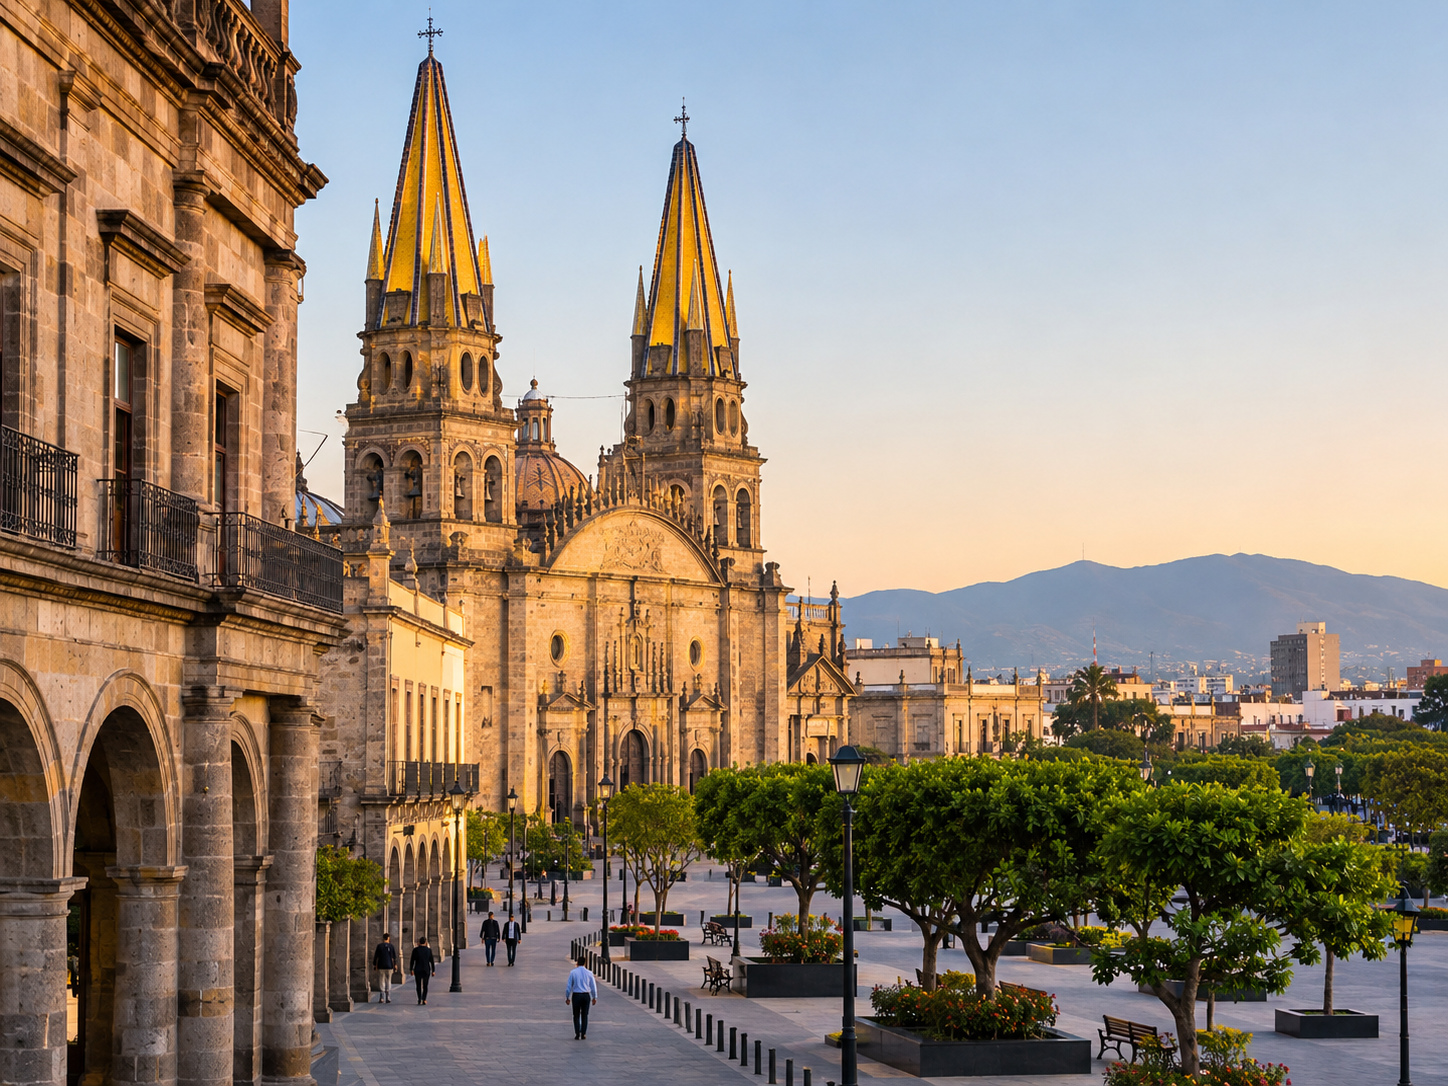
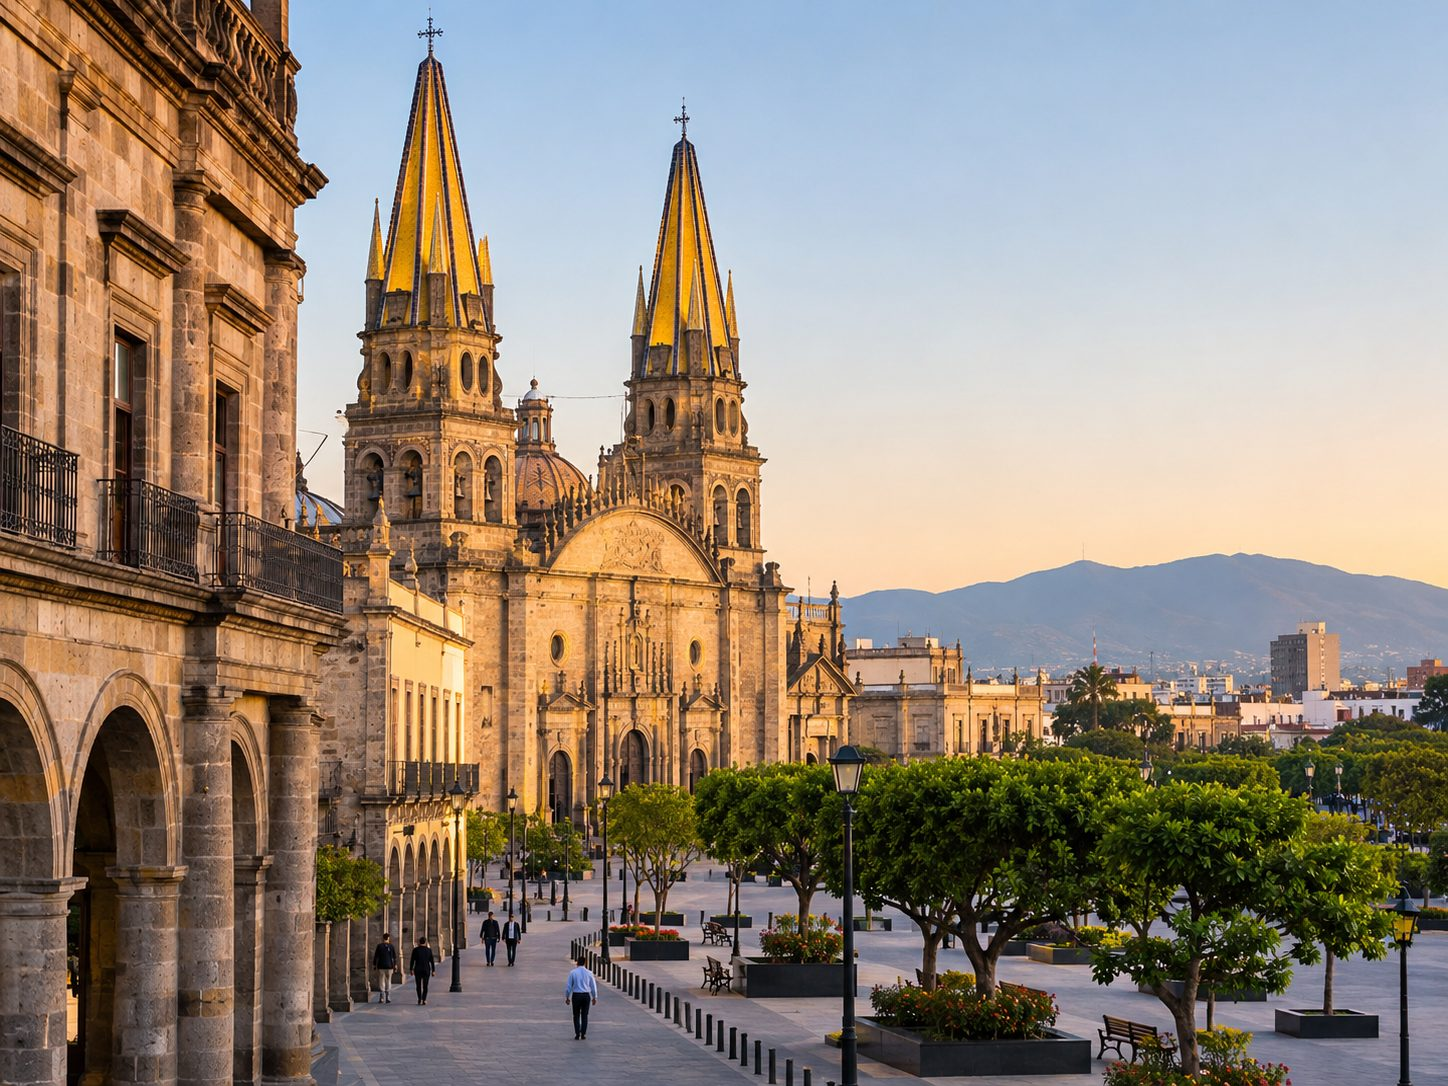
Integrate hero and Why Mexico photos; fix visual layout
Convert uploaded PNG-as-JPG photos to optimized JPEGs, set correct
dimensions, and anchor the angular photo panels to the viewport so
subjects are no longer cropped off-screen.

Claude-Session: https://claude.ai/code/session_01BZTSaTHnoeGsWz4jrevzK2

Changed region(s): [[0.7459, 0.8508, 0.7769, 0.8812]]

diff --git a/style.css b/style.css
@@ -126,7 +126,7 @@ a { color: var(--teal); }
   background: linear-gradient(180deg, #f6f8fa 0%, #fff 100%);
   padding: 56px 0 0;
 }
-.hero-grid { display: grid; grid-template-columns: minmax(0, 1.12fr) minmax(0, 0.88fr); align-items: stretch; gap: 0; }
+.hero-grid { display: block; }
 .hero-copy { padding: 32px 24px 56px 0; position: relative; z-index: 2; }
 .hero h1 { font-weight: 800; font-size: clamp(2.3rem, 4.6vw, 3.55rem); line-height: 1.07; margin-bottom: 20px; }
 .hero h1 .accent { color: var(--starter); }
@@ -137,20 +137,20 @@ a { color: var(--teal); }
 .hero-benefits i { font-size: 1.7rem; color: var(--starter); }
 
 .hero-visual {
-  position: relative; min-height: 440px; margin-right: calc(50% - 50vw);
+  position: absolute; top: 56px; right: 0; bottom: 0; width: 46vw;
   background: linear-gradient(135deg, var(--navy) 0%, #1f4a5e 55%, var(--teal) 100%);
   clip-path: polygon(14% 0, 100% 0, 100% 100%, 0 100%);
 }
-.hero-visual img { position: absolute; inset: 0; width: 100%; height: 100%; object-fit: cover; object-position: 60% 30%; }
+.hero-copy { max-width: calc(54vw - 24px); }
+.hero-visual img { position: absolute; inset: 0; width: 100%; height: 100%; object-fit: cover; object-position: 78% 30%; }
 /* Angular green accents */
 .hero-visual::before, .hero-visual::after { content: ""; position: absolute; z-index: 1; pointer-events: none; }
 .hero-visual::before { left: 0; top: 0; bottom: 0; width: 17%; background: linear-gradient(160deg, #19a56a 0%, #0e7c4f 70%); clip-path: polygon(80% 0, 100% 0, 0 100%, 0 100%); opacity: 0.92; }
 .hero-visual::after { right: 0; bottom: 0; width: 24%; height: 38%; background: linear-gradient(135deg, rgba(25,165,106,0.0) 0%, #19a56a 55%, #0e7c4f 100%); clip-path: polygon(100% 0, 100% 100%, 0 100%); }
 @media (max-width: 991.98px) {
   .hero { padding-top: 24px; }
-  .hero-grid { grid-template-columns: 1fr; }
-  .hero-copy { padding: 16px 0 36px; }
-  .hero-visual { min-height: 300px; margin: 0 -12px; clip-path: polygon(0 12%, 100% 0, 100% 100%, 0 100%); }
+  .hero-copy { max-width: none; padding: 16px 0 36px; }
+  .hero-visual { position: relative; top: auto; right: auto; bottom: auto; width: auto; min-height: 300px; margin: 0 -12px; clip-path: polygon(0 12%, 100% 0, 100% 100%, 0 100%); }
   .hero-visual::before { display: none; }
 }
 @media (max-width: 575.98px) {
@@ -263,25 +263,24 @@ a { color: var(--teal); }
 
 /* ---------- Why Mexico ---------- */
 .why { position: relative; overflow: hidden; background: linear-gradient(180deg, #f1f5f8, #f7f9fb); }
-.why-grid { display: grid; grid-template-columns: minmax(0, 0.9fr) minmax(0, 1.1fr); align-items: stretch; }
+.why-grid { display: block; }
 .why-visual {
-  position: relative; min-height: 380px; margin-left: calc(50% - 50vw);
+  position: absolute; top: 0; bottom: 0; left: 0; width: 46vw;
   background: linear-gradient(135deg, #3a4f66 0%, #2b6b78 60%, #287c78 100%);
   clip-path: polygon(0 0, 100% 0, 84% 100%, 0 100%);
 }
 .why-visual img { position: absolute; inset: 0; width: 100%; height: 100%; object-fit: cover; }
 .why-visual::after { content: ""; position: absolute; top: 0; right: 0; bottom: 0; width: 18%; background: linear-gradient(200deg, #19a56a, #0e7c4f); opacity: .9; clip-path: polygon(100% 0, 100% 100%, 0 100%, 75% 0); }
-.why-copy { padding: 56px 0 56px 56px; }
+.why-copy { padding: 64px 0; margin-left: calc(46vw - (100vw - 100%) / 2 + 40px); }
 .why-copy h2 { font-weight: 800; font-size: clamp(1.6rem, 2.8vw, 2.1rem); }
 .why-benefits { display: grid; grid-template-columns: repeat(4, 1fr); gap: 12px; margin: 32px 0 0; padding: 0; list-style: none; }
 .why-benefits li { text-align: center; font-size: 0.8rem; font-weight: 700; color: var(--navy); padding: 4px 6px; border-left: 1px solid var(--gray-200); }
 .why-benefits li:first-child { border-left: 0; }
 .why-benefits i { display: block; font-size: 1.6rem; color: var(--starter); margin-bottom: 8px; }
 @media (max-width: 991.98px) {
-  .why-grid { grid-template-columns: 1fr; }
-  .why-visual { margin: 0 -12px; min-height: 250px; clip-path: polygon(0 0, 100% 0, 100% 88%, 0 100%); }
+  .why-visual { position: relative; width: auto; left: auto; top: auto; bottom: auto; margin: 0 -12px; min-height: 250px; clip-path: polygon(0 0, 100% 0, 100% 88%, 0 100%); }
   .why-visual::after { display: none; }
-  .why-copy { padding: 36px 0 56px; }
+  .why-copy { margin-left: 0; padding: 36px 0 56px; }
 }
 @media (max-width: 575.98px) { .why-benefits { grid-template-columns: repeat(2, 1fr); gap: 20px 12px; } .why-benefits li:nth-child(3) { border-left: 0; } }
 

diff --git a/index.html b/index.html
@@ -102,8 +102,7 @@
             </ul>
           </div>
           <div class="hero-visual">
-            <!-- Photo: assets/img/hero-team.jpg (see GRAPHIC_ASSET_PLAN.md). Hidden automatically if the file is not present yet. -->
-            <img src="assets/img/hero-team.jpg" alt="Professionals collaborating in a modern office" width="1600" height="1000" fetchpriority="high" onerror="this.remove()" />
+            <img src="assets/img/hero-team.jpg" alt="Professionals collaborating in a modern office" width="1536" height="1024" fetchpriority="high" />
           </div>
         </div>
       </div>
@@ -353,8 +352,7 @@
       <div class="container">
         <div class="why-grid">
           <div class="why-visual">
-            <!-- Photo: assets/img/why-mexico-guadalajara.jpg (see GRAPHIC_ASSET_PLAN.md). Hidden automatically if not present yet. -->
-            <img src="assets/img/why-mexico-guadalajara.jpg" alt="Historic cathedral and city skyline in Guadalajara, Mexico" width="1400" height="1000" loading="lazy" onerror="this.remove()" />
+            <img src="assets/img/why-mexico-guadalajara.jpg" alt="Historic cathedral and city skyline in Guadalajara, Mexico" width="1448" height="1086" loading="lazy" />
           </div>
           <div class="why-copy">
             <p class="eyebrow green">Why Mexico</p>

diff --git a/GRAPHIC_ASSET_PLAN.md b/GRAPHIC_ASSET_PLAN.md
@@ -27,14 +27,14 @@ Site stack: static HTML + Bootstrap 5.3 + Bootstrap Icons (GitHub Pages, `CNAME`
 Logo concept: the redwood is modernized into three stacked, evenly weighted chevrons (tree + upward growth) on a short trunk; wordmark set in Montserrat ExtraBold/Bold with wide tracking on "GROWTH". Light = navy `#142B45` text with green/teal tiers; dark = white text with lighter green tiers; icon-only variant for favicon and small sizes.
 Interface icons, the geometric hero details, and the comparison table are CSS/Bootstrap Icons — no images needed.
 
-## C. Still needed: photography (not generated — no image generator is available in this environment)
+## C. Photography — delivered and integrated
 
-| Asset | Section | Purpose | Aspect ratio | Recommended size | Format | Filename | Destination | Priority |
-|---|---|---|---|---|---|---|---|---|
-| Hero team photo | Hero | Natural workforce photography beside the headline; cropped by an angular clip-path with a green accent | 3:2 landscape (displayed ≈1.1:1, subjects must stay in the right-center) | 1800×1200 | JPG, quality ~82, under 300 KB | `hero-team.jpg` | `assets/img/` | **High** |
-| Why Mexico photo | Why Mexico | Guadalajara urban/architectural imagery; not touristy | 4:3 landscape | 1600×1200 | JPG, quality ~82, under 250 KB | `why-mexico-guadalajara.jpg` | `assets/img/` | **High** |
+| Asset | Section | File | Notes |
+|---|---|---|---|
+| Hero team photo | Hero | `assets/img/hero-team.jpg` (1536×1024, ~145 KB) | Uploaded as a PNG with a `.jpg` name; converted to a real progressive JPEG. Cropped by an angular clip-path; `object-position` keeps the subject in frame. |
+| Why Mexico photo | Why Mexico | `assets/img/why-mexico-guadalajara.jpg` (1448×1086, ~300 KB) | Same conversion. Lazy-loaded. |
 
-Both `<img>` tags already exist in `index.html` with the exact filenames above, correct `width`/`height`, `alt` text, and lazy loading (hero is eager + `fetchpriority="high"`). Until the files exist the tags remove themselves and a navy/teal gradient panel with the green geometric accents is shown instead (this produces one harmless 404 in the console per missing file). Drop the files in and nothing else needs to change.
+Prompts used are kept below for regenerating or extending the set.
 
 ## D. Image-generation prompts (format from the `image-prompts` skill — paste the whole block into a new ChatGPT chat)
 
